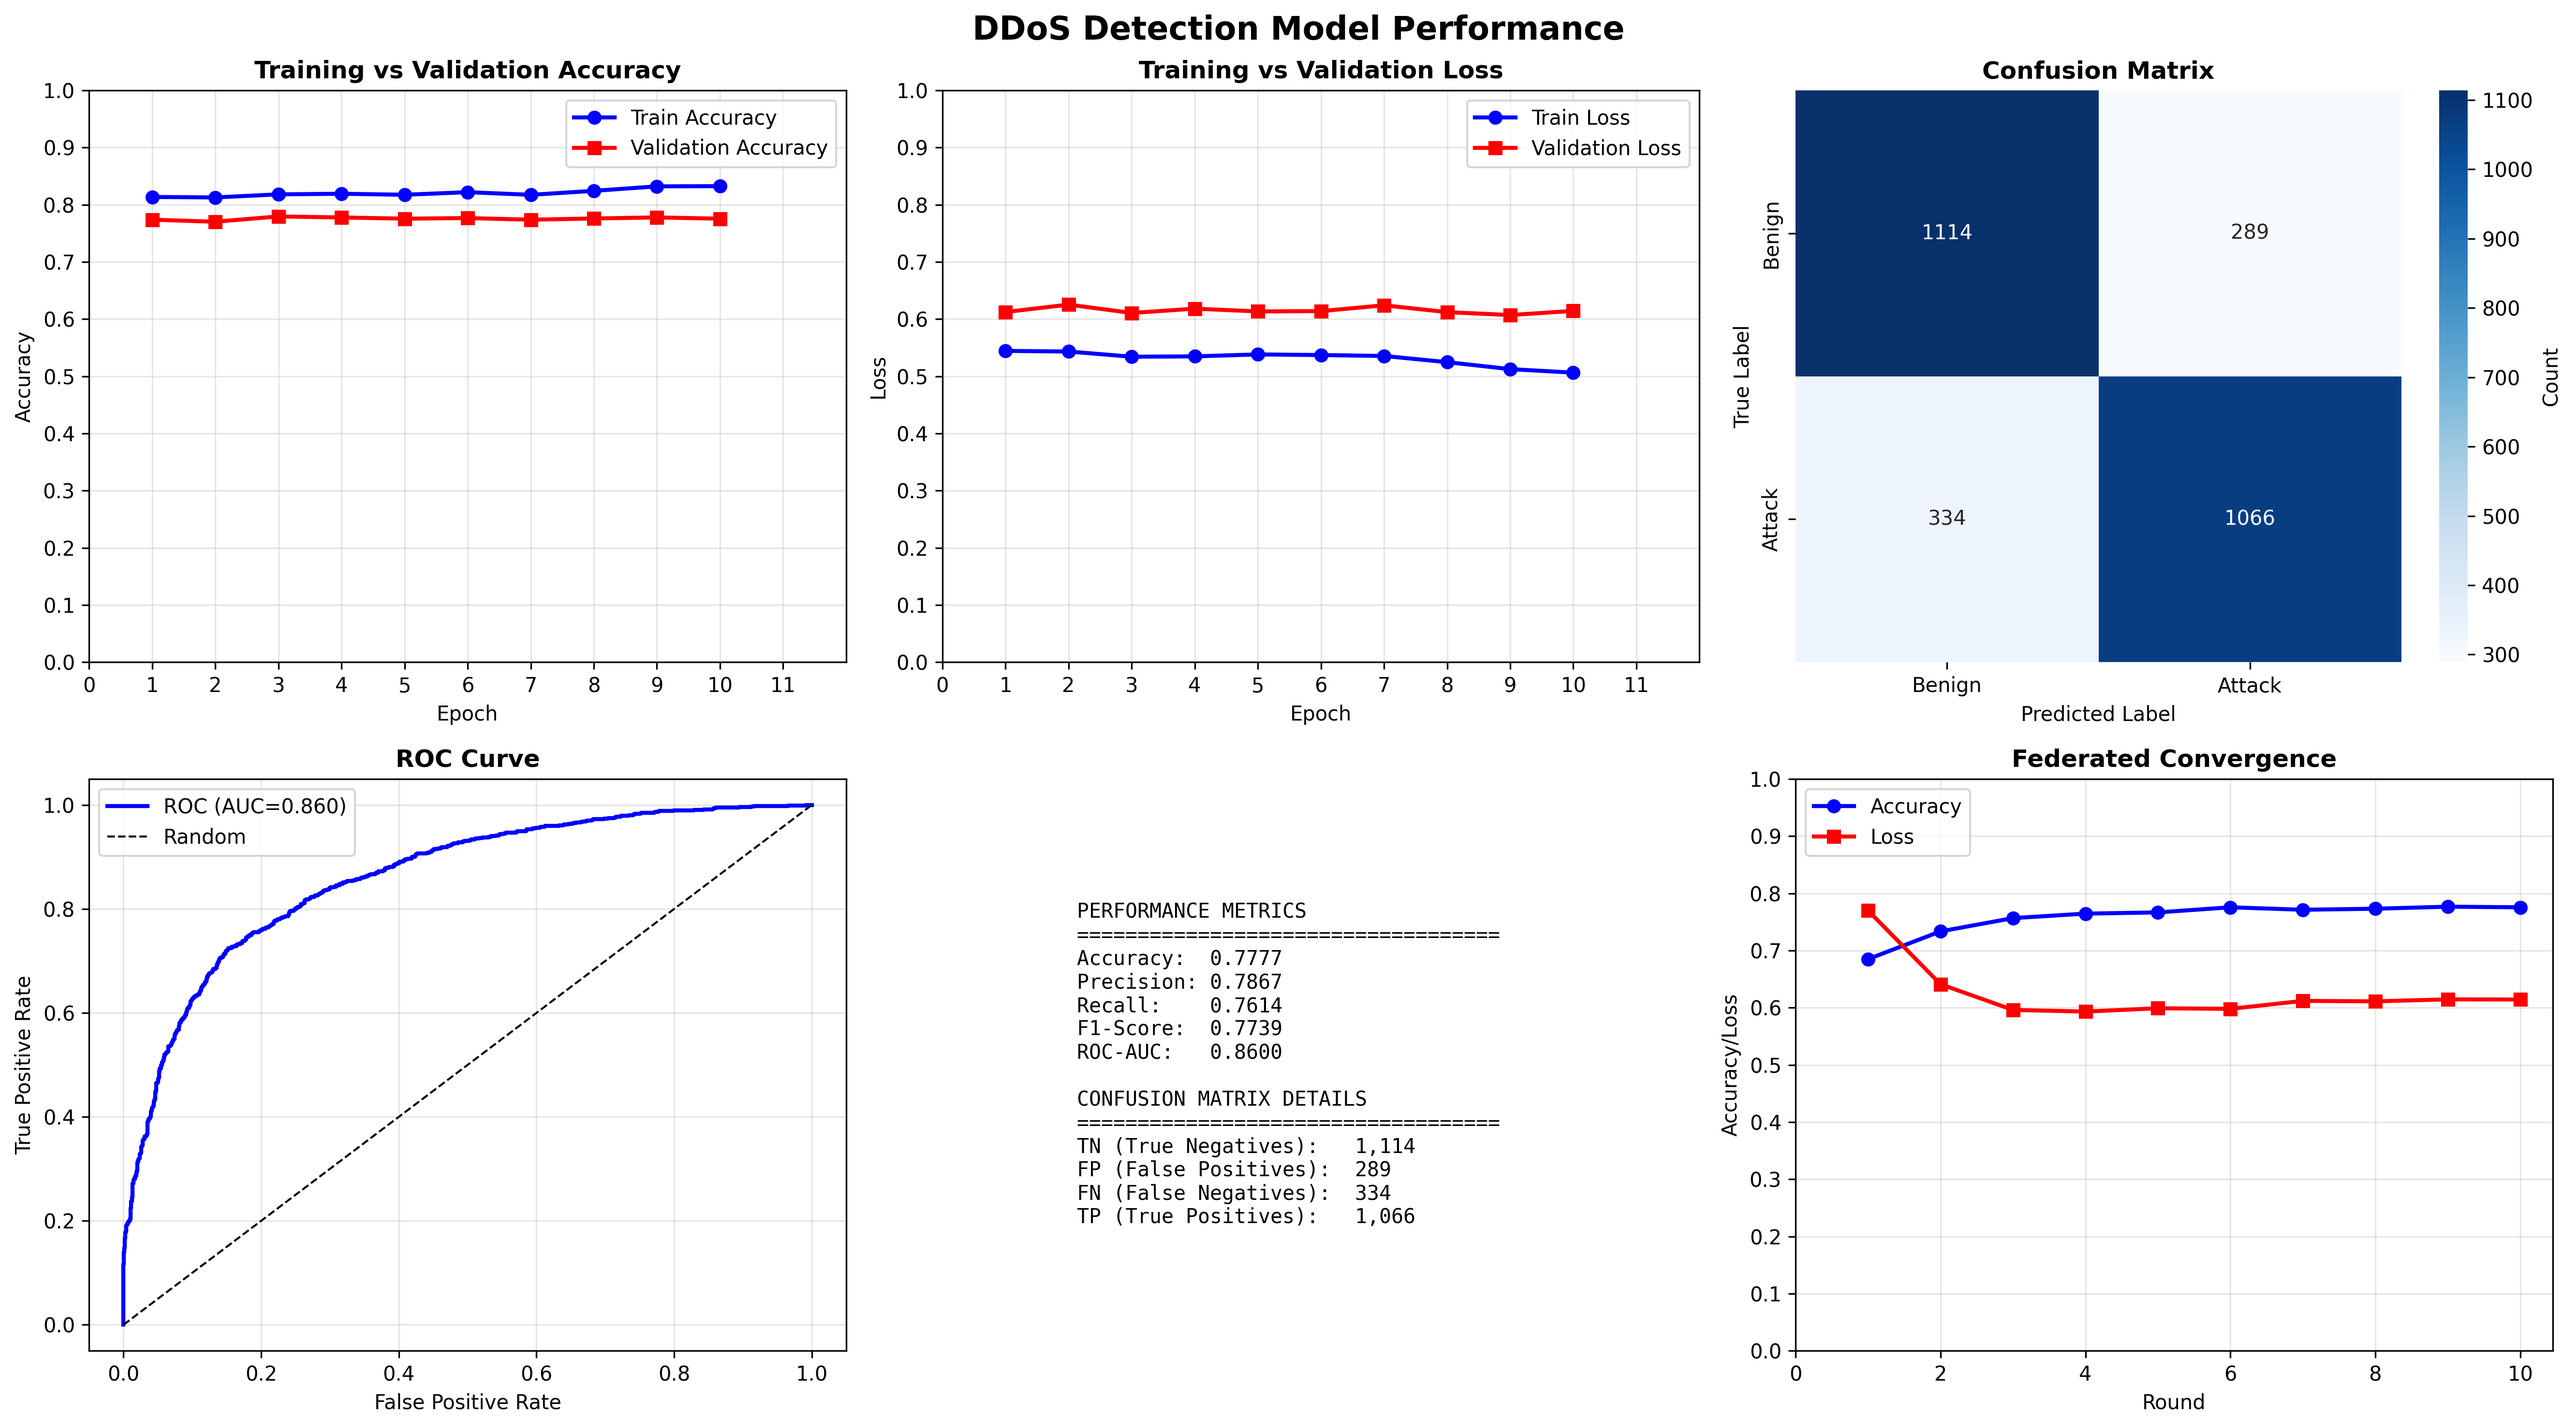
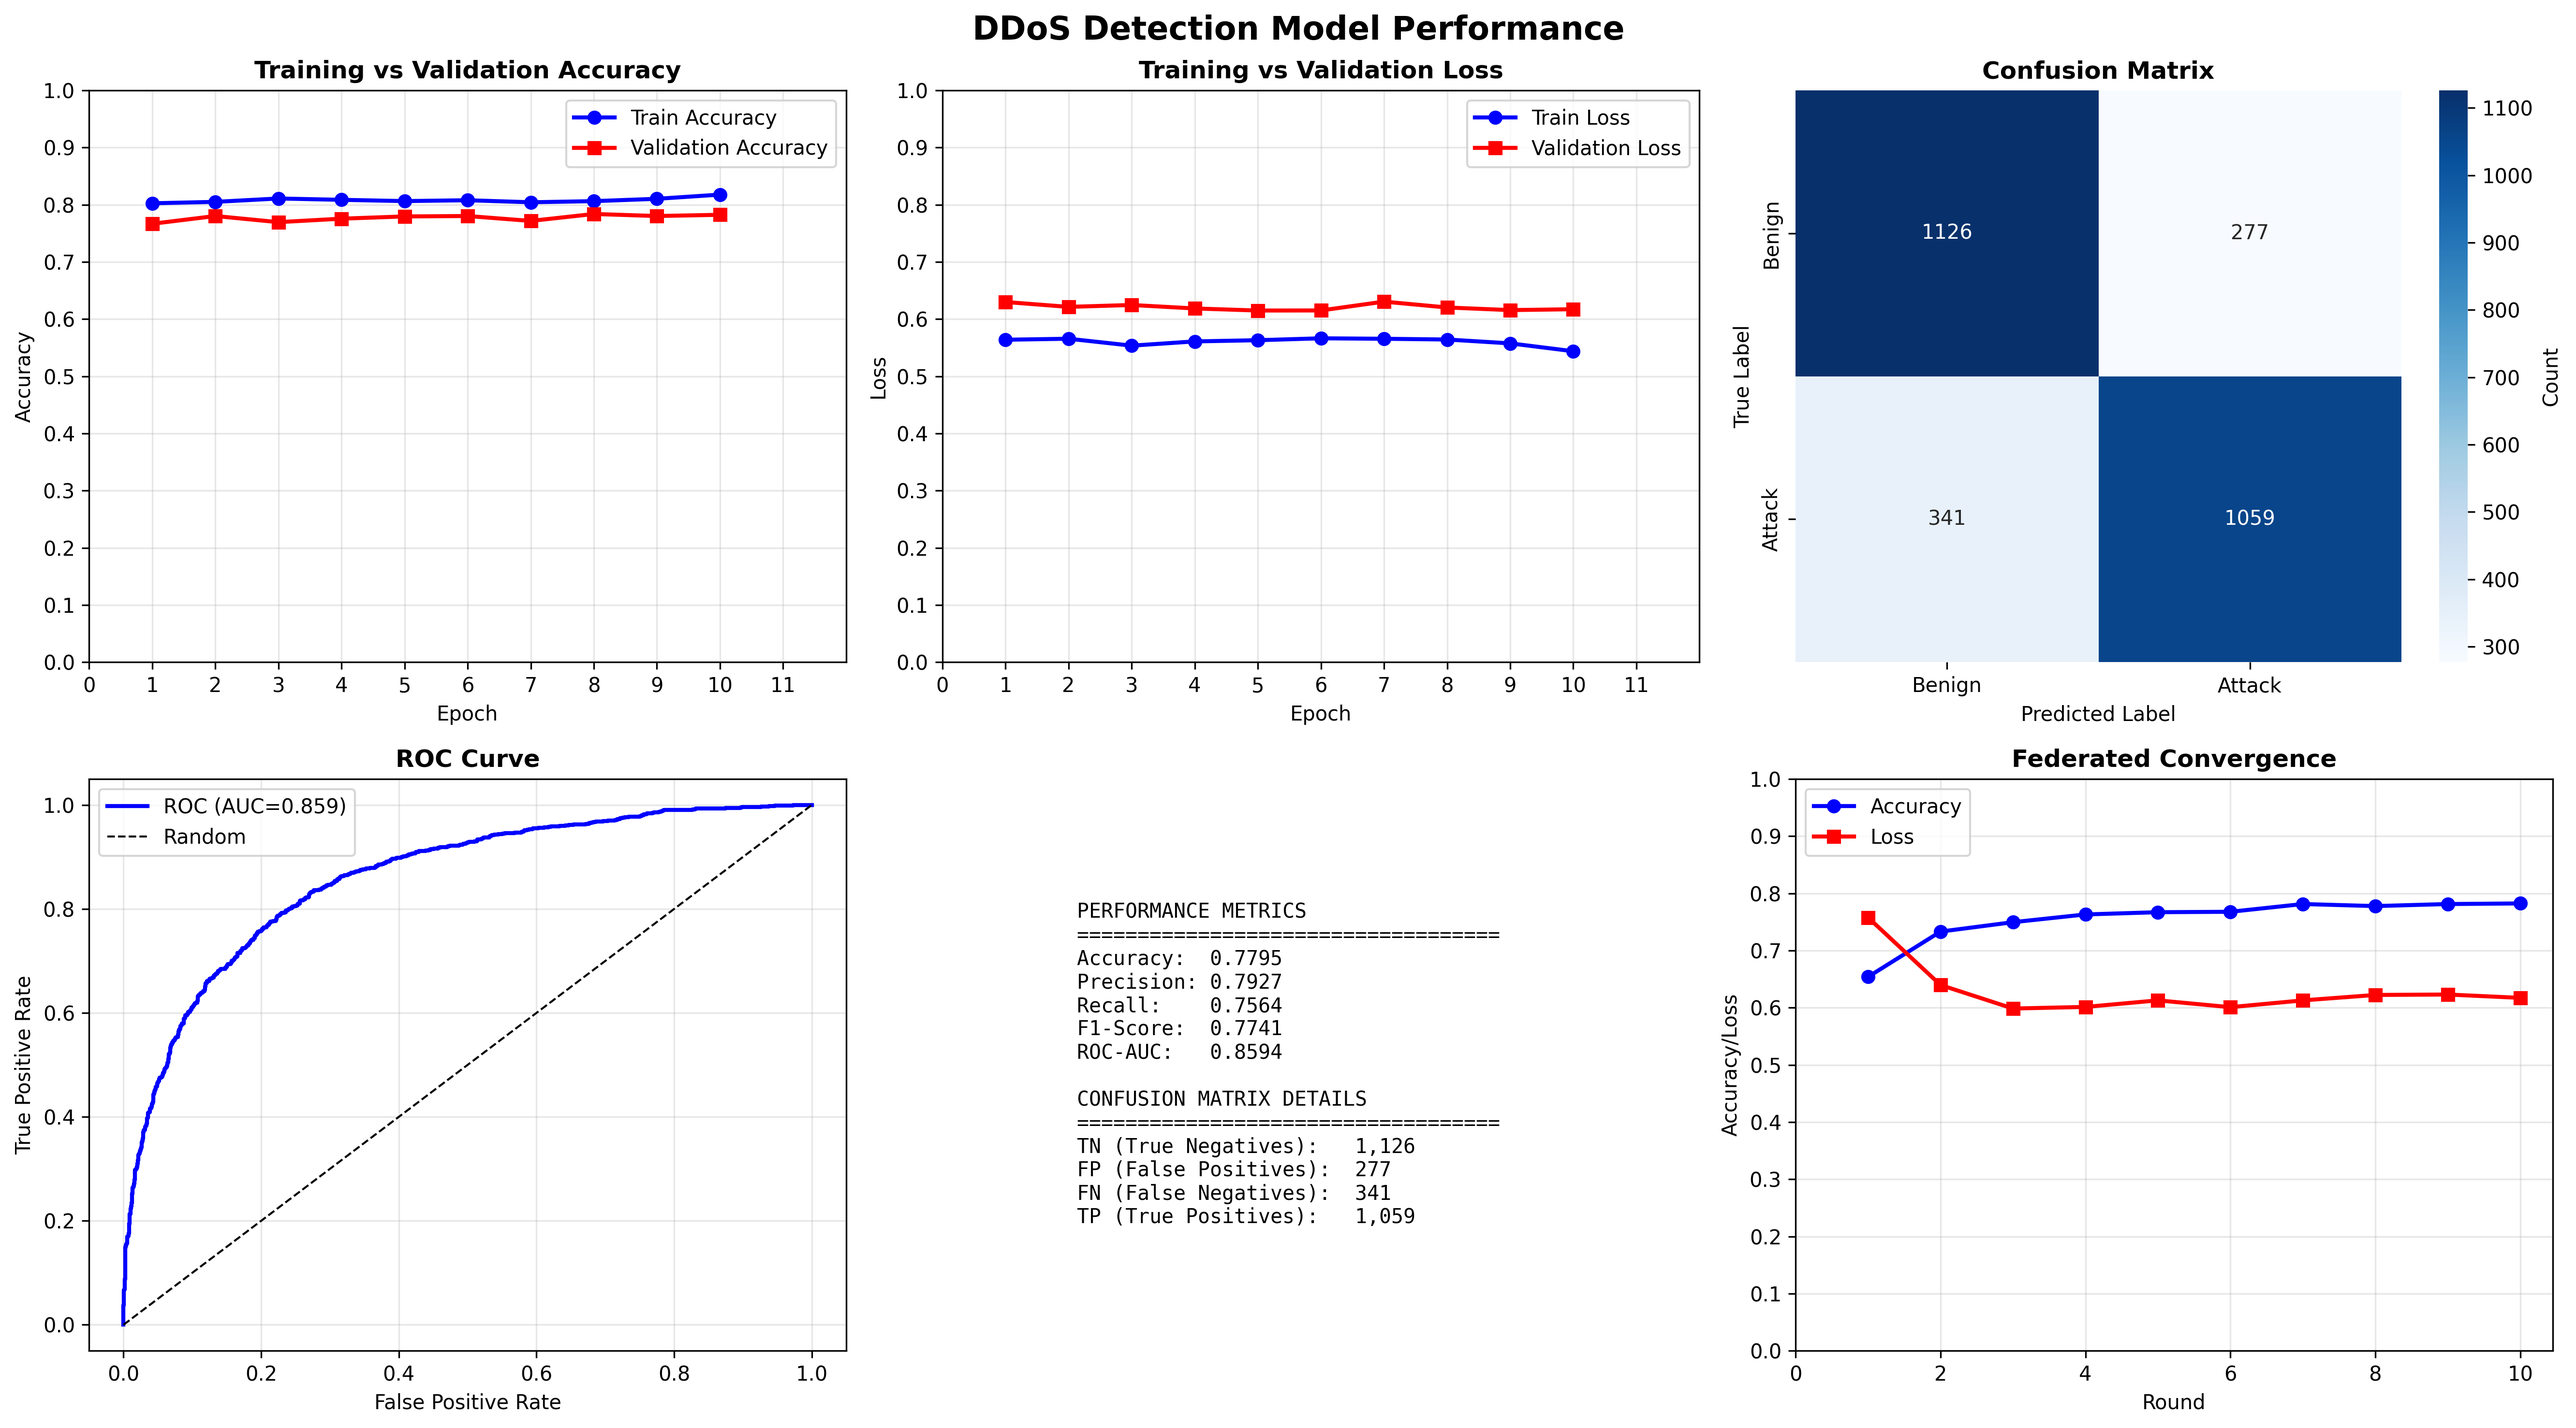
New results

diff --git a/train.py b/train.py
@@ -113,40 +113,40 @@ class ProductionTrainer:
         logger.info("🏗 Building CNN model...")
 
         model = tf.keras.Sequential([
-            # Conv Block 1 - with L2 regularization
+            # Conv Block 1 - with balanced L2 regularization
             tf.keras.layers.Conv1D(
                 64, 3, activation='relu', padding='same', input_shape=input_shape,
-                kernel_regularizer=tf.keras.regularizers.L2(0.001)),
+                kernel_regularizer=tf.keras.regularizers.L2(0.0005)),
             tf.keras.layers.BatchNormalization(),
             tf.keras.layers.Dropout(0.35),
             tf.keras.layers.MaxPooling1D(2),
 
-            # Conv Block 2 - with L2 regularization
+            # Conv Block 2 - with balanced L2 regularization
             tf.keras.layers.Conv1D(128, 3, activation='relu', padding='same',
-                                   kernel_regularizer=tf.keras.regularizers.L2(0.001)),
+                                   kernel_regularizer=tf.keras.regularizers.L2(0.0005)),
             tf.keras.layers.BatchNormalization(),
             tf.keras.layers.Dropout(0.35),
             tf.keras.layers.MaxPooling1D(2),
 
-            # Conv Block 3 - with L2 regularization
+            # Conv Block 3 - with balanced L2 regularization
             tf.keras.layers.Conv1D(256, 3, activation='relu', padding='same',
-                                   kernel_regularizer=tf.keras.regularizers.L2(0.001)),
+                                   kernel_regularizer=tf.keras.regularizers.L2(0.0005)),
             tf.keras.layers.BatchNormalization(),
             tf.keras.layers.Dropout(0.35),
             tf.keras.layers.GlobalAveragePooling1D(),
 
-            # Dense layers - with L2 regularization
+            # Dense layers - with balanced L2 regularization
             tf.keras.layers.Dense(128, activation='relu',
-                                  kernel_regularizer=tf.keras.regularizers.L2(0.001)),
+                                  kernel_regularizer=tf.keras.regularizers.L2(0.0005)),
             tf.keras.layers.Dropout(0.45),
             tf.keras.layers.Dense(64, activation='relu',
-                                  kernel_regularizer=tf.keras.regularizers.L2(0.001)),
+                                  kernel_regularizer=tf.keras.regularizers.L2(0.0005)),
             tf.keras.layers.Dropout(0.4),
             tf.keras.layers.Dense(1, activation='sigmoid')
         ])
 
         model.compile(
-            optimizer=tf.keras.optimizers.Adam(learning_rate=0.0005),
+            optimizer=tf.keras.optimizers.Adam(learning_rate=0.0008),
             loss='binary_crossentropy',
             metrics=['accuracy', tf.keras.metrics.Precision(), tf.keras.metrics.Recall(),
                      tf.keras.metrics.AUC()]
